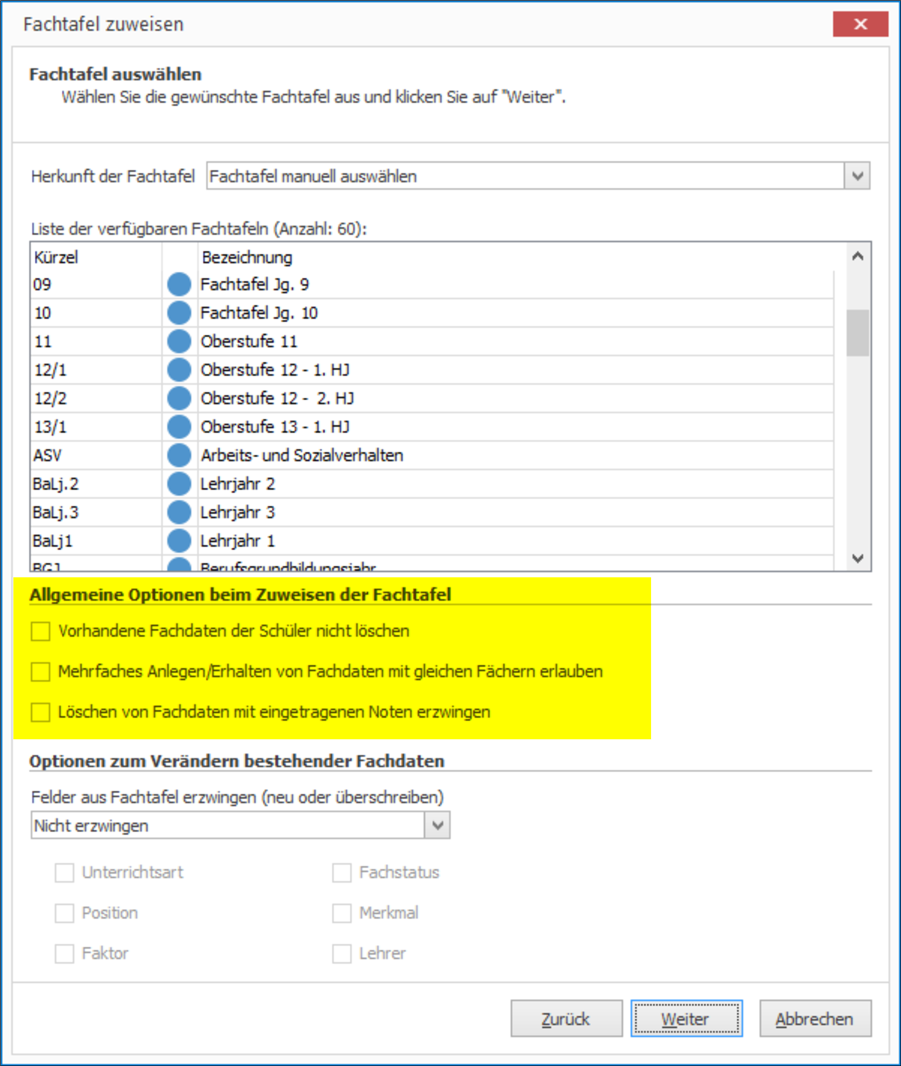
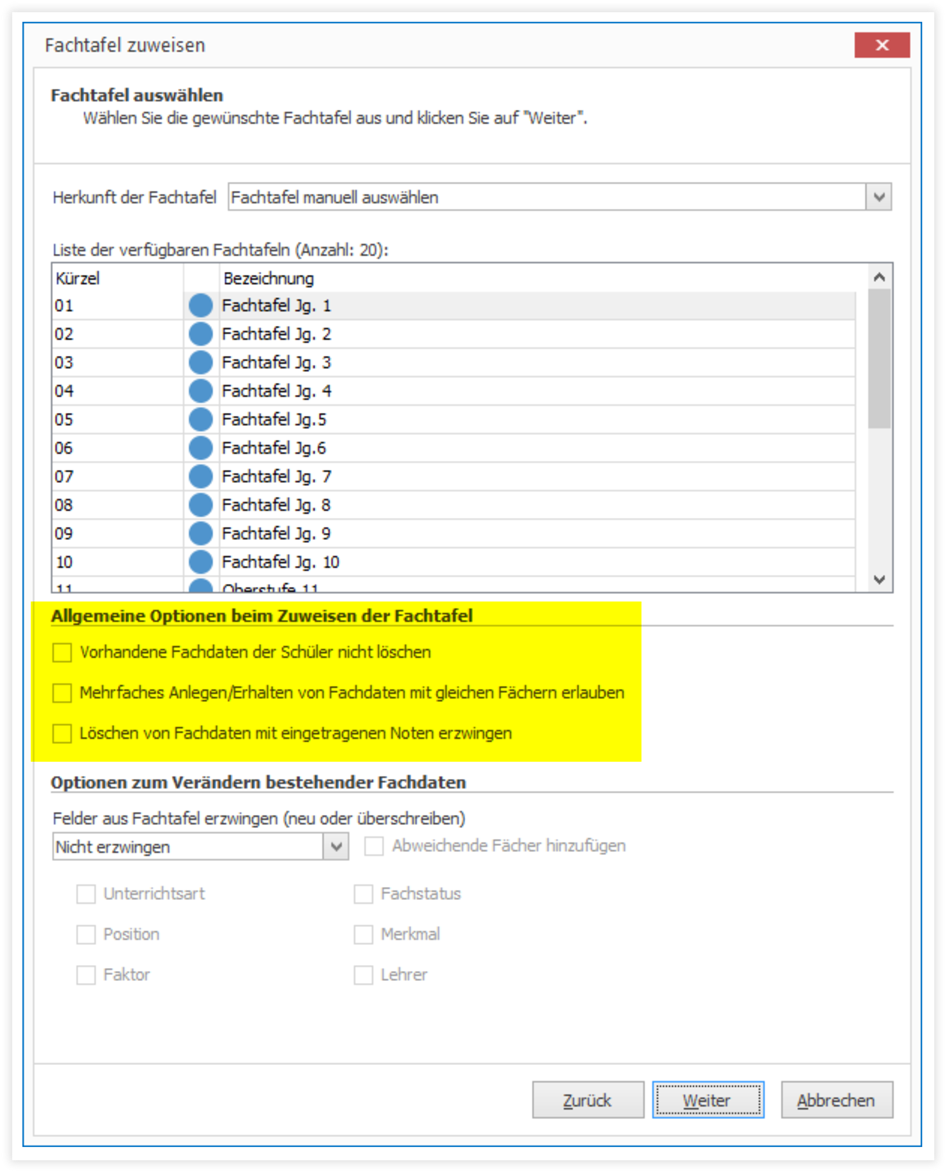
no message

Changed region(s): [[0.0, 0.0, 1.0, 1.0]]

diff --git a/docs/schulverwaltung/howto/zeugnisdaten.md b/docs/schulverwaltung/howto/zeugnisdaten.md
@@ -4,6 +4,9 @@
 [2]:/assets/images/zeugnisdaten/zeugnisdaten52.png
 [3]:/assets/images/zeugnisdaten/zeugnisdaten57.png
 [4]:/assets/images/zeugnisdaten/zeugnisdaten58.png
+[5]:/assets/images/zeugnisdaten/zeugnisdaten59.png "Zusätzliche oder abweichende Fächer"
+[6]:/assets/images/zeugnisdaten/zeugnisdaten60.png
+[7]:/assets/images/zeugnisdaten/zeugnisdaten61.png
 
 Dieses Kapitel befasst sich mit den zeitraumabhängigen Schülerdaten. Sie finden diese Schülerdaten auf den Registerkarten `Laufbahn` und `Zeugnis` des Schülers. In diesem Kapitel werden sämtliche Eingaben der notwendigen Daten für den Zeugnisdruck beschrieben. Die Noteneingabe kann über zweierlei Wege erfolgen: zentral über MAGELLAN und dezentral über MyMAGELLAN. In diesem Kapitel wird die zentrale Noteneingabe beschrieben. Wie Sie auf Grundlage der erfassten Zeugnisdaten die Zeugnisse ausdrucken können, erfahren Sie im Kapitel `Formulare, Listen und Zeugnisse`.
 
@@ -78,7 +81,8 @@ Möchten Sie eine Fachtafel neu erstellen, die größtenteils auf einer bereits 
 
 ## Fächer zuweisen
 
-### Fachtafeln zuweisen (ab MAGELLAN 9)
+### Fachtafeln zuweisen
+
 
 !!! warning "Wichtig!"
 
@@ -87,6 +91,7 @@ Möchten Sie eine Fachtafel neu erstellen, die größtenteils auf einer bereits 
     Eine zusätzliche Prüfung vergleicht die Fächer und verhindert Dopplungen.
     Zusätzlich gibt es weitere Optionen, die das mehrfache Zuweisen eines Fachs gestatten oder auch das Löschen von Fächern mit Note erzwingen können.
     Für bereits zugewiesene Schülerfächer können zusätzlich zu `Position`, `Faktor`, `Merkmal` und `Lehrer` noch `Unterrichtsart` und `Fachstatus` ergänzt werden.
+    Ein Anleitung für ältere Versionen (bis MAGELLAN 8) finden Sie unter [https://doc.magellan.stueber.de/schulverwaltung/howto/fachtafel.bis.8](https://doc.magellan.stueber.de/schulverwaltung/howto/fachtafel.bis.8).
 
 Sie weisen Schülern Fächer und Leistungen auf der Registerkarte `Zeugnis` zu. Durch das Zuweisen von Fachtafeln können Sie einem oder mehreren Schülern die zuvor definierten Fachtafeln zuweisen.
 
@@ -129,39 +134,31 @@ Kombinationen|Funktion
 
 #### Optionen zum Verändern bestehender Fachdaten
 
-Diese Optionen können ohne das Zuweisen einer Fachtafel zum Ergänzen genutzt werden, können aber auch parallel zum Zuweisen verwendet werden.
-
-!!! warning "Wichtig!"
-
-    Wenn Sie abweichende Fachzeilen beim Ergänzen nicht ändern möchten, setzen Sie bitte das Häkchen für `Vorhandene Fachdaten der Schüler nicht löschen`!
-
 [![Optionen zum Verändern bestehender Fachdaten][4]][4]
 
-Nr.|Option|Funktion
---|--|--
-1.|Nicht erzwingen|Standardauswahl, keine Aktion
-2.|Über Fach abgleichen| Je nach Auswahl per Checkbox werden `Unterrichtsart`, `Fachstatus`, `Merkmal`, `Position`, `Faktor` oder `Lehrer` aus der Fachtafel ausgelesen und dem erkannten Fach (bei Fach-Dopplungen den Fächer) zugewiesen. Für den Vergleich der Fächer wird die Fach-ID verwendet. Ein leerer Wert aus der Fachtafel überschreibt bei gesetzter Option einen erfassten Wert beim Schülerfach.<br/>Wenn Sie abweichende Fachzeilen beim Ergänzen nicht ändern möchten, setzen Sie bitte das Häkchen für `Vorhandene Fachdaten der Schüler nicht löschen`
-3.|Über Fach, Unterrichtsart, Fachstatus abgleichen| Wie `2.`, das Fach wird aber nicht nur anhand der Fach-ID erkannt, zusätzlich werden auch Unterrichtsart (Kürzel) und Fachstatus (Kürzel) verglichen, nur wenn alle drei übereinstimmen, wird geändert.<br/>Wenn Sie abweichende Fachzeilen beim Ergänzen nicht ändern möchten, setzen Sie bitte das Häkchen für `Vorhandene Fachdaten der Schüler nicht löschen`
+Diese Optionen können ohne das Zuweisen einer Fachtafel zum Ergänzen genutzt werden, können aber auch parallel zum Zuweisen verwendet werden.
 
-### Fachtafeln zuweisen (bis MAGELLAN 8)
+##### Abweichende Fächer beim Schüler/in der Fachtafel
 
-!!! warning "Wichtig!"
+[![Zusätzliche oder abweichende Fächer][5]][5]
 
-    Allgemein: Vor dem Zuweisen von Fächern aus einer Fachtafel werden bereits angelegte Fächer beim Schüler gelöscht, anschließend werden die Fächer der Fachtafeln dem Schüler zugewiesen. Mit der Option `Vorhandene Fächer der Schüler nicht löschen` kann das Löschen der Fächer verhindert werden, die Fächer der gewählten Fachtafel werden zusätzlich für den Schüler zugewiesen.
+**Beim Schüler sind mehr Fächer als in der Fachtafel?**
 
-Sie weisen Schülern Fächer und Leistungen auf der Registerkarte `Zeugnis` zu. Durch das Zuweisen von Fachtafeln können Sie einem oder mehreren Schülern die zuvor definierten Fachtafeln  zuweisen. 
+Beim Nutzen der Funktionen wird das Häkchen für `Vorhandene Fachdaten der Schüler nicht löschen` automatisch aktiviert und die Funktion ausgegraut! Beim Schüler zusätzlich erfasste Fächer werden so nicht gelöscht. So werden beispielsweise je Schüler individuell erfasste Fächer, die nicht Teil der Fachtafel sind, nicht verändert.
 
-Das Zuweisen von Fachtafeln kann alternativ auch direkt beim Einschulen oder beim Fortschreiben bzw. Versetzen erfolgen. So weisen Sie Schülern eine Fachtafel zu.
+**Beim Schüler sind weniger Fächer als in der Fachtafel?**
 
-|Nr.|So geht's|
-|:--|:--|
-|1.| Klicken Sie auf Ansicht und dann auf Schüler.  |
-|2. |Wählen Sie einen gewünschten Schüler in der Auswahlliste aus und gehen Sie dann auf die Registerkarte `Zeugnis`. Wählen Sie hier die Registerkarte `Fächer`.<br/><br/><img src="/assets/images/zeugnisdaten/zeugnisdaten6.png">|
-|3. |Klicken Sie oben auf `Fachtafel zuweisen`. Es öffnet sich der Assistent `Fachtafel zuweisen`. Klicken Sie auf `Weiter`, um zu den nächsten Schritten zu gelangen. |
-|4.| Unter `Schüler auswählen` befinden sich alle Schüler des aktuellen Halbjahres. Nutzen Sie die [Gruppierung oder Filterung](https://doc.magellan.stueber.de/schulverwaltung/howto/sort-group-filter-search/) und markieren Sie Schüler, denen Sie dieselbe Fachtafel zuweisen möchten, gruppenweise und klicken Sie auf `Weiter`.<br/><br/>Unter `Schüler auswählen` müssen Sie die Schüler markieren, denen Sie eine Fachtafel zuweisen wollen.<img src="/assets/images/zeugnisdaten/zeugnisdaten7.png"><br/><br/> Unter `Fachtafel auswählen` wählen Sie die Fachtafel aus, die den markierten Schülern zugewiesen werden soll. <img src="/assets/images/zeugnisdaten/zeugnisdaten8.png"> |
-|5. |Markieren Sie eine Fachtafel. Klicken Sie anschließend auf `Weiter`. Dabei richtet sich die Auswahl der Fachtafeln nach der Herkunft der Fachtafel:<br/><br/> * **Fachtafel manuell auswählen:** Es werden alle Fachtafeln angezeigt, die im Verzeichnis Fachtafeln definiert sind.<br/><br/> * **Beim jeweiligen Schüler hinterlegte Fachtafel benutzen:** Es werden jeweils die Fachtafeln zugewiesen, die bei den markierten Schülern auf der Registerkarte `Laufbahn` unter `Fachtafel` definiert sind.<br/><br/> * **Bei der jeweiligen Klasse hinterlegte Fachtafel benutzen:** Es werden jeweils die Fachtafeln zugewiesen, die bei den Klassen der markierten Schülern auf der Registerkarte `Zeiträume` unter `Fachtafel` definiert sind. |
-|6. |Klicken Sie dann auf `Weiter`  und anschließend auf `Fertigstellen`, um die Fachtafel den Schülern zuzuweisen. Sie haben auch die Möglichkeit z.B. erst die Fachtafelzuweisung für alle evangelischen Schüler einer Klasse oder eines Jahrganges zu machen. Gruppieren Sie in diesem Fall nach Klassen und nach Konfession. Markieren Sie alle evangelischen Schüler und klicken Sie auf `Weiter`.  |
-|7. |Unter Fachtafel zuweisen können Sie dann die gewünschte Fachtafel für die evangelischen Schüler markieren. Klicken Sie dann auf `Weiter`. Anschließend verfahren Sie analog für die katholischen Schüler und weisen diesen die Fachtafel für die katholischen Schüler zu. |
+Ob beim Schüler nicht existierende Fächer der Fachtafel bei der Aktion zugewiesen werden oder nicht, steuern Sie mit dem Häkchen `Abweichende Fächer hinzufügen`. So wird beispielsweise eine Zeile Mathematik, die auf Schüler > Zeugnis > Fächer nicht steht, aber in der Fachtafel enthalten wird, ergänzt.
+
+[![Optionen][6]][6]
+
+[![Optionen][7]][7]
+
+Nr.|Option
+--|--
+1.|**Nicht erzwingen**<br/>Standardauswahl, keine Aktion
+2.|**Über Fach abgleichen**<br/>Je nach Auswahl per Checkbox werden `Unterrichtsart`, `Fachstatus`, `Merkmal`, `Position`, `Faktor` oder `Lehrer` aus der Fachtafel ausgelesen und dem erkannten Fach (bei Fach-Dopplungen den Fächer) zugewiesen. Für den Vergleich der Fächer wird die Fach-ID verwendet. Ein leerer Wert aus der Fachtafel überschreibt bei gesetzter Option einen erfassten Wert beim Schülerfach.<br/>Wenn Sie abweichende Fachzeilen beim Ergänzen nicht ändern möchten, setzen Sie bitte das Häkchen für `Vorhandene Fachdaten der Schüler nicht löschen`
+3.|**Über Fach, Unterrichtsart, Fachstatus abgleichen**<br/>Wie `2.`, das Fach wird aber nicht nur anhand der Fach-ID erkannt, zusätzlich werden auch Unterrichtsart (Kürzel) und Fachstatus (Kürzel) verglichen, nur wenn alle drei übereinstimmen, wird geändert.
 
 ### Fach hinzufügen, ändern und löschen
 

diff --git a/docs/schulverwaltung/howto/fachtafel.bis.8.md b/docs/schulverwaltung/howto/fachtafel.bis.8.md
@@ -1,0 +1,19 @@
+# Fachtafeln zuweisen (bis MAGELLAN 8)
+
+!!! warning "Wichtig!"
+
+    Allgemein: Vor dem Zuweisen von Fächern aus einer Fachtafel werden bereits angelegte Fächer beim Schüler gelöscht, anschließend werden die Fächer der Fachtafeln dem Schüler zugewiesen. Mit der Option `Vorhandene Fächer der Schüler nicht löschen` kann das Löschen der Fächer verhindert werden, die Fächer der gewählten Fachtafel werden zusätzlich für den Schüler zugewiesen.
+
+Sie weisen Schülern Fächer und Leistungen auf der Registerkarte `Zeugnis` zu. Durch das Zuweisen von Fachtafeln können Sie einem oder mehreren Schülern die zuvor definierten Fachtafeln  zuweisen. 
+
+Das Zuweisen von Fachtafeln kann alternativ auch direkt beim Einschulen oder beim Fortschreiben bzw. Versetzen erfolgen. So weisen Sie Schülern eine Fachtafel zu.
+
+|Nr.|So geht's|
+|:--|:--|
+|1.| Klicken Sie auf Ansicht und dann auf Schüler.  |
+|2. |Wählen Sie einen gewünschten Schüler in der Auswahlliste aus und gehen Sie dann auf die Registerkarte `Zeugnis`. Wählen Sie hier die Registerkarte `Fächer`.<br/><br/><img src="/assets/images/zeugnisdaten/zeugnisdaten6.png">|
+|3. |Klicken Sie oben auf `Fachtafel zuweisen`. Es öffnet sich der Assistent `Fachtafel zuweisen`. Klicken Sie auf `Weiter`, um zu den nächsten Schritten zu gelangen. |
+|4.| Unter `Schüler auswählen` befinden sich alle Schüler des aktuellen Halbjahres. Nutzen Sie die [Gruppierung oder Filterung](https://doc.magellan.stueber.de/schulverwaltung/howto/sort-group-filter-search/) und markieren Sie Schüler, denen Sie dieselbe Fachtafel zuweisen möchten, gruppenweise und klicken Sie auf `Weiter`.<br/><br/>Unter `Schüler auswählen` müssen Sie die Schüler markieren, denen Sie eine Fachtafel zuweisen wollen.<img src="/assets/images/zeugnisdaten/zeugnisdaten7.png"><br/><br/> Unter `Fachtafel auswählen` wählen Sie die Fachtafel aus, die den markierten Schülern zugewiesen werden soll. <img src="/assets/images/zeugnisdaten/zeugnisdaten8.png"> |
+|5. |Markieren Sie eine Fachtafel. Klicken Sie anschließend auf `Weiter`. Dabei richtet sich die Auswahl der Fachtafeln nach der Herkunft der Fachtafel:<br/><br/> * **Fachtafel manuell auswählen:** Es werden alle Fachtafeln angezeigt, die im Verzeichnis Fachtafeln definiert sind.<br/><br/> * **Beim jeweiligen Schüler hinterlegte Fachtafel benutzen:** Es werden jeweils die Fachtafeln zugewiesen, die bei den markierten Schülern auf der Registerkarte `Laufbahn` unter `Fachtafel` definiert sind.<br/><br/> * **Bei der jeweiligen Klasse hinterlegte Fachtafel benutzen:** Es werden jeweils die Fachtafeln zugewiesen, die bei den Klassen der markierten Schülern auf der Registerkarte `Zeiträume` unter `Fachtafel` definiert sind. |
+|6. |Klicken Sie dann auf `Weiter`  und anschließend auf `Fertigstellen`, um die Fachtafel den Schülern zuzuweisen. Sie haben auch die Möglichkeit z.B. erst die Fachtafelzuweisung für alle evangelischen Schüler einer Klasse oder eines Jahrganges zu machen. Gruppieren Sie in diesem Fall nach Klassen und nach Konfession. Markieren Sie alle evangelischen Schüler und klicken Sie auf `Weiter`.  |
+|7. |Unter Fachtafel zuweisen können Sie dann die gewünschte Fachtafel für die evangelischen Schüler markieren. Klicken Sie dann auf `Weiter`. Anschließend verfahren Sie analog für die katholischen Schüler und weisen diesen die Fachtafel für die katholischen Schüler zu. |
